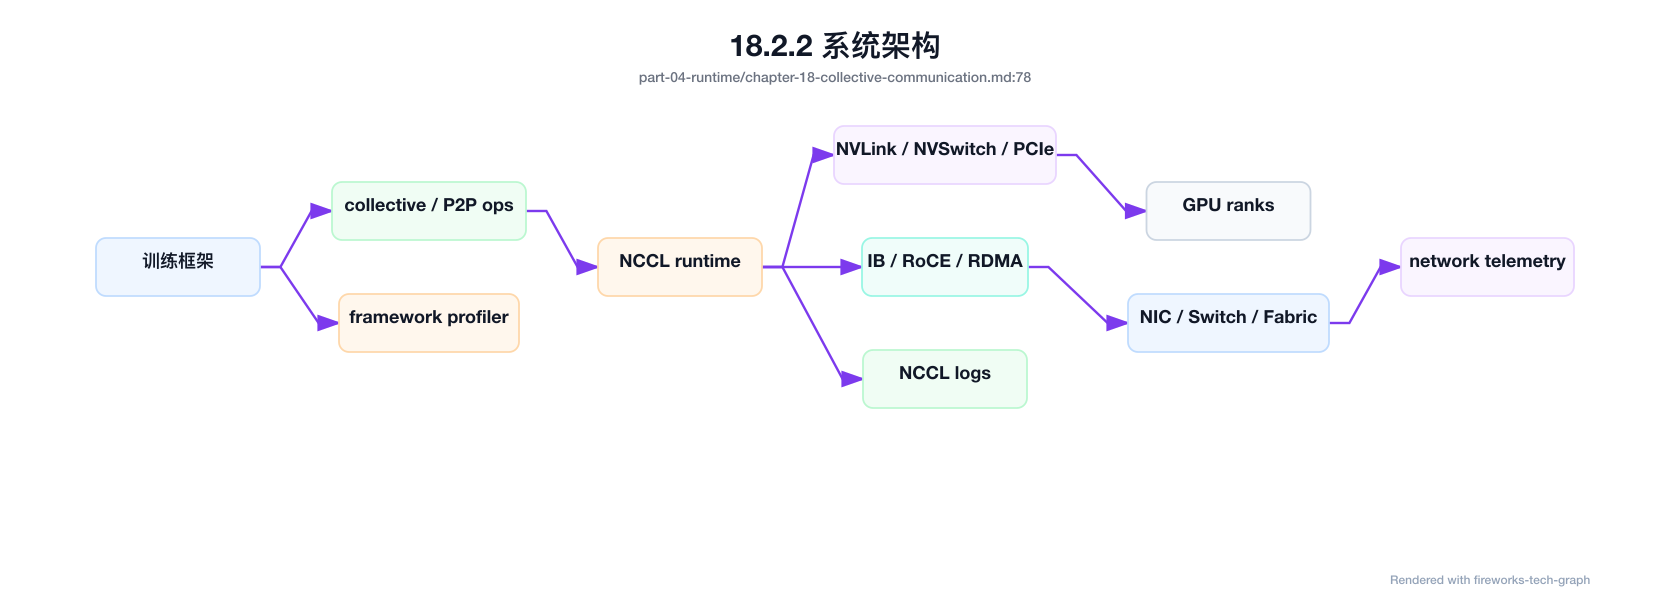
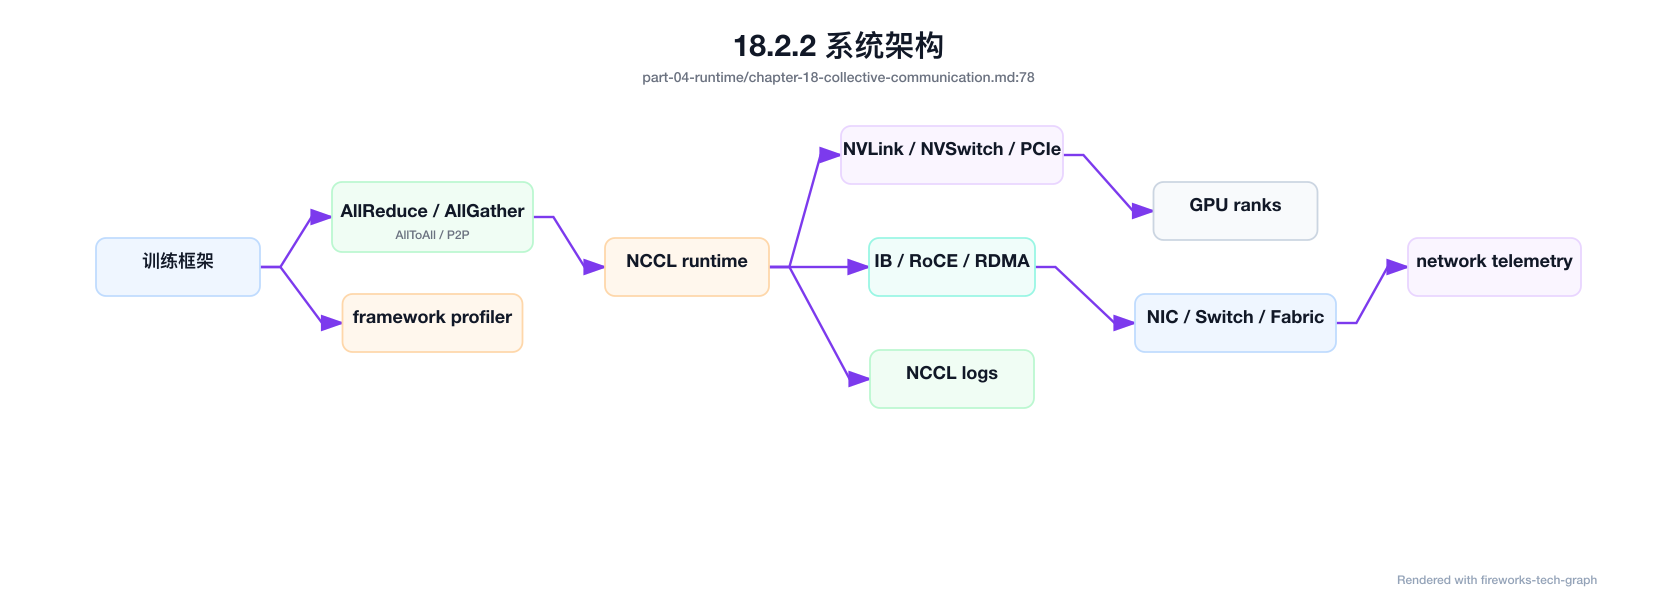
Deployed c9071a9 with MkDocs version: 1.6.1

diff --git a/part-04-runtime/chapter-18-collective-communication/index.html b/part-04-runtime/chapter-18-collective-communication/index.html
@@ -1770,10 +1770,10 @@
 </li>
         
           <li class="md-nav__item">
-  <a href="#1836-nccl" class="md-nav__link">
+  <a href="#1836-alltoall" class="md-nav__link">
     <span class="md-ellipsis">
       
-        18.3.6 NCCL
+        18.3.6 AllToAll
       
     </span>
   </a>
@@ -1781,10 +1781,10 @@
 </li>
         
           <li class="md-nav__item">
-  <a href="#1837-nvlink-ibroce" class="md-nav__link">
+  <a href="#1837-nccl" class="md-nav__link">
     <span class="md-ellipsis">
       
-        18.3.7 NVLink 与 IB/RoCE
+        18.3.7 NCCL
       
     </span>
   </a>
@@ -1792,10 +1792,21 @@
 </li>
         
           <li class="md-nav__item">
-  <a href="#1838" class="md-nav__link">
+  <a href="#1838-nvlink-ibroce" class="md-nav__link">
     <span class="md-ellipsis">
       
-        18.3.8 通信瓶颈分析
+        18.3.8 NVLink 与 IB/RoCE
+      
+    </span>
+  </a>
+  
+</li>
+        
+          <li class="md-nav__item">
+  <a href="#1839" class="md-nav__link">
+    <span class="md-ellipsis">
+      
+        18.3.9 通信瓶颈分析
       
     </span>
   </a>
@@ -3638,10 +3649,10 @@
 </li>
         
           <li class="md-nav__item">
-  <a href="#1836-nccl" class="md-nav__link">
+  <a href="#1836-alltoall" class="md-nav__link">
     <span class="md-ellipsis">
       
-        18.3.6 NCCL
+        18.3.6 AllToAll
       
     </span>
   </a>
@@ -3649,10 +3660,10 @@
 </li>
         
           <li class="md-nav__item">
-  <a href="#1837-nvlink-ibroce" class="md-nav__link">
+  <a href="#1837-nccl" class="md-nav__link">
     <span class="md-ellipsis">
       
-        18.3.7 NVLink 与 IB/RoCE
+        18.3.7 NCCL
       
     </span>
   </a>
@@ -3660,10 +3671,21 @@
 </li>
         
           <li class="md-nav__item">
-  <a href="#1838" class="md-nav__link">
+  <a href="#1838-nvlink-ibroce" class="md-nav__link">
     <span class="md-ellipsis">
       
-        18.3.8 通信瓶颈分析
+        18.3.8 NVLink 与 IB/RoCE
+      
+    </span>
+  </a>
+  
+</li>
+        
+          <li class="md-nav__item">
+  <a href="#1839" class="md-nav__link">
+    <span class="md-ellipsis">
+      
+        18.3.9 通信瓶颈分析
       
     </span>
   </a>
@@ -3799,7 +3821,7 @@
 <h2 id="181">18.1 导读<a class="headerlink" href="#181" title="Permanent link">&para;</a></h2>
 <h3 id="1811">18.1.1 本章回答的问题<a class="headerlink" href="#1811" title="Permanent link">&para;</a></h3>
 <ul>
-<li>AllReduce、AllGather、ReduceScatter、Broadcast 和 P2P 分别解决什么通信问题？</li>
+<li>AllReduce、AllGather、ReduceScatter、Broadcast、AllToAll 和 P2P 分别解决什么通信问题？</li>
 <li>NCCL 如何把训练框架的通信请求映射到 GPU、NVLink 和 IB/RoCE？</li>
 <li>通信瓶颈如何观察、定位和优化？</li>
 </ul>
@@ -3812,7 +3834,7 @@
 </ul>
 <h3 id="1813">18.1.3 读者测试<a class="headerlink" href="#1813" title="Permanent link">&para;</a></h3>
 <ul>
-<li>机制题：读者能否解释 AllReduce、AllGather、ReduceScatter、Broadcast 的核心机制，以及它们如何共同支撑《通信原语》？</li>
+<li>机制题：读者能否解释 AllReduce、AllGather、ReduceScatter、Broadcast、AllToAll 的核心机制，以及它们如何共同支撑《通信原语》？</li>
 <li>边界题：读者能否区分 框架、引擎、CUDA/NCCL、container runtime、driver 和硬件拓扑 的责任边界，并说明哪些问题不能简单归因到本章组件？</li>
 <li>路径题：读者能否从框架调用追到推理/训练 runtime、CUDA、NCCL、通信、GPU/HBM 和版本矩阵，并指出本章对象在路径中的位置？</li>
 <li>排障题：当《通信原语》相关生产症状出现时，读者能否列出第一层证据、下一跳证据、可能 owner 和止血动作？</li>
@@ -3820,12 +3842,12 @@
 <h3 id="1814">18.1.4 一个真实场景<a class="headerlink" href="#1814" title="Permanent link">&para;</a></h3>
 <p>一个 128 卡训练任务在前几天运行稳定，某天开始 step time 周期性升高。模型代码、数据版本和训练参数都没有变化，GPU utilization 也不是一直低，而是呈现“计算一段、等待一段”的锯齿形。应用团队先怀疑 PyTorch 版本和数据加载，平台团队检查 DataLoader 后没有发现异常。进一步打开框架 profiler 和 NCCL 日志，发现 AllReduce 带宽在部分 step 明显下降，关联到的 rank 都经过同一组交换机端口。</p>
 <p>网络 telemetry 显示，这些端口的错误计数和重传增加。对应用层来说，症状是训练变慢；对 Runtime 层来说，是 collective communication 无法稳定完成；对基础设施层来说，是链路质量下降或拥塞控制异常。这个场景说明，通信原语不是分布式训练的底层细节，而是连接模型框架、GPU 拓扑和网络健康的关键路径。没有通信视角，训练性能问题很容易被误判。</p>
-<p>本章的重点不是记住每个原语的定义，而是理解它们在训练系统中搬运什么数据、何时发生、消耗哪类链路、产生什么临时内存，以及如何被观测。AllReduce、AllGather、ReduceScatter、Broadcast 和 P2P 的语义不同，故障表现也不同。把通信原语讲清楚，才能把“训练慢”拆成可诊断的问题。</p>
+<p>本章的重点不是记住每个原语的定义，而是理解它们在训练系统中搬运什么数据、何时发生、消耗哪类链路、产生什么临时内存，以及如何被观测。AllReduce、AllGather、ReduceScatter、Broadcast、AllToAll 和 P2P 的语义不同，故障表现也不同。把通信原语讲清楚，才能把“训练慢”拆成可诊断的问题。</p>
 <p>更重要的是，通信问题通常跨团队边界。模型团队看到 loss 和 step time，Runtime 团队看到 profiler，平台团队看到 Pod 和 rank，网络团队看到端口和链路。若没有共同语言，各方会用自己的指标解释同一个现象。通信原语正是这套共同语言：它把训练框架中的一次等待，翻译成具体的数据交换、参与 rank、网络路径和可能的故障域。</p>
 <p>所以，本章会把每个原语都放回工程现场：它什么时候出现，慢了会怎样，错了如何定位。</p>
 <h2 id="182">18.2 基础模型<a class="headerlink" href="#182" title="Permanent link">&para;</a></h2>
 <h3 id="1821">18.2.1 核心概念<a class="headerlink" href="#1821" title="Permanent link">&para;</a></h3>
-<p>通信原语是分布式程序中常见的数据交换模式。训练框架用它们同步梯度、聚合参数、分发状态、移动 activation、传递 Pipeline micro-batch 或 dispatch MoE token。Collective communication 指多个 rank 共同参与的通信，例如 AllReduce、AllGather、ReduceScatter 和 Broadcast；P2P 则是 rank 之间点对点发送和接收。二者共同构成分布式训练的数据通路。</p>
+<p>通信原语是分布式程序中常见的数据交换模式。训练框架用它们同步梯度、聚合参数、分发状态、移动 activation、传递 Pipeline micro-batch 或 dispatch MoE token。Collective communication 指多个 rank 共同参与的通信，例如 AllReduce、AllGather、ReduceScatter、Broadcast 和 AllToAll；P2P 则是 rank 之间点对点发送和接收。二者共同构成分布式训练的数据通路。</p>
 <p>NCCL 是 NVIDIA GPU 生态中常用的集合通信库，它负责在多 GPU、多节点、多网络路径中执行这些通信。训练框架表达“我要对这些 rank 做 AllReduce”，NCCL 根据拓扑、算法、协议和环境变量选择具体路径。底层可能走 NVLink、NVSwitch、PCIe、InfiniBand、RoCE 或主机网络。上层看到的是一个通信 op，底层实际涉及 GPU、NIC、交换机、驱动、容器权限和网络配置。</p>
 <p>理解通信原语能帮助工程师区分计算瓶颈和通信瓶颈。GPU utilization 低不一定是模型小，也可能是 rank 在等待通信；HBM OOM 不一定是参数太多，也可能是 AllGather 临时 buffer；NCCL hang 不一定是 NCCL bug，也可能是某个 rank 没有进入同一个 collective。通信原语是分布式训练的系统语言，掌握它才能进行可靠排障。</p>
 <p>还要理解同步语义。大多数 collective 要求参与 rank 以一致顺序进入通信，否则就可能等待或挂起。分布式训练中，一个 rank 的异常分支、一个数据 shard 的特殊样本、一次未处理的 OOM，都可能让其他 rank 看起来像 NCCL hang。很多通信故障的根源并不在网络，而在多 rank 控制流不一致。</p>
@@ -3919,8 +3941,14 @@
 <p>同时记录对应的 stage 或 expert 关系。</p>
 <p>这能把通信阻塞映射回模型结构。</p>
 <p>诊断才可行动。</p>
-<h3 id="1836-nccl">18.3.6 NCCL<a class="headerlink" href="#1836-nccl" title="Permanent link">&para;</a></h3>
-<p>NCCL 是 GPU 集合通信的核心运行时之一，提供 AllReduce、AllGather、ReduceScatter、Broadcast 和 P2P 等能力。它会根据拓扑和配置选择算法、协议和网络接口。NCCL 的行为受 CUDA、driver、NCCL 版本、容器设备注入、RDMA 栈、网卡选择、DNS/主机名、环境变量和防火墙等因素影响。很多 NCCL 问题并不是库本身错误，而是运行环境不一致。</p>
+<h3 id="1836-alltoall">18.3.6 AllToAll<a class="headerlink" href="#1836-alltoall" title="Permanent link">&para;</a></h3>
+<p>AllToAll 表示每个 rank 都向其它 rank 发送自己负责的一部分数据，并从其它 rank 接收对应分片。它和 AllGather 不同：AllGather 让每个 rank 得到完整集合，AllToAll 则是全局重分布。Expert Parallel/MoE 是最典型场景，router 先按 token 选择 expert，然后通过 AllToAll 把 token dispatch 到持有对应 expert 的 rank，计算完成后再通过反向 AllToAll 或 All-to-All combine 把输出恢复到原顺序。</p>
+<p>AllToAll 的难点在于流量不均衡。Data Parallel 的 AllReduce 通常通信量更稳定，AllToAll 则会受到 token 分布、top-k、capacity factor、expert placement 和负载均衡损失影响。某些 expert 过热时，相关 rank、rail 或 rack 会成为热点；某些 rank 接收 token 过多时，既会增加通信时间，也会增加 expert 计算排队。平均带宽正常，不代表 AllToAll 没有尾部问题。</p>
+<p>排查 AllToAll 要同时看路由和网络。第一层证据不是只看 NCCL 带宽，而是看每个 expert 的 token count、drop/overflow、dispatch/combine 时间、rank pair 流量矩阵、慢 rank 和负载均衡 loss。若热点集中在某组 expert，优先检查 gating、capacity 和 expert placement；若热点集中在某个 rack 或 rail，优先检查拓扑放置和网络路径。AllToAll 把模型路由策略和 scale-out fabric 紧密绑在一起，不能只交给网络团队处理。</p>
+<p>AllToAll 还会影响并行维度放置。EP 可以跨节点扩展 expert 数，但跨节点 AllToAll 会把 token 重分布放到关键路径上；若模型同时使用 TP、PP、DP 和 EP，AllToAll 的并行组应尽量与高带宽域、rack 边界和 expert 热点分布匹配。平台应把 AllToAll 画像写入 <code>collective_trace_record</code>，并在调度侧保存 expert group、rank mapping 和 network path evidence。</p>
+<p>从生产角度看，AllToAll 不是“MoE 的一个通信细节”，而是 MoE 能否稳定服务的核心风险面。它决定 token 是否能按时到达 expert，决定负载均衡损失是否会变成尾延迟，也决定网络成本是否随 expert 数量失控。没有 AllToAll 观测，EP/MoE 的性能问题很容易被误判为模型质量、GPU 算力或普通网络抖动。</p>
+<h3 id="1837-nccl">18.3.7 NCCL<a class="headerlink" href="#1837-nccl" title="Permanent link">&para;</a></h3>
+<p>NCCL 是 GPU 集合通信的核心运行时之一，提供 AllReduce、AllGather、ReduceScatter、Broadcast、AllToAll 和 P2P 等能力。它会根据拓扑和配置选择算法、协议和网络接口。NCCL 的行为受 CUDA、driver、NCCL 版本、容器设备注入、RDMA 栈、网卡选择、DNS/主机名、环境变量和防火墙等因素影响。很多 NCCL 问题并不是库本身错误，而是运行环境不一致。</p>
 <p>生产平台要把 NCCL 配置作为运行时基线管理。NCCL 版本、关键环境变量、网络接口选择、拓扑文件、debug 级别、timeout 策略都应可追溯。容器内看不到 RDMA 设备、选择了错误网卡、节点间主机名解析异常、RoCE 配置不完整，都可能表现为 NCCL 初始化失败、性能下降或 hang。排障时不能只让用户贴一段错误日志，而要自动收集环境和拓扑上下文。</p>
 <p>更严格的做法是生成 <code>nccl_env_contract</code>。它定义一类训练模板允许哪些 NCCL 环境变量、接口选择、RDMA 设备、timeout、debug 和拓扑文件。用户可以覆盖部分参数，但覆盖必须进入审计，并触发对应回归。这个 contract 能防止“某个脚本临时加了 <code>NCCL_SOCKET_IFNAME</code>，后来所有任务都走错接口”这种隐性事故。</p>
 <pre><code class="language-yaml">nccl_env_contract:
@@ -3960,7 +3988,7 @@
 <p>通信库升级应按基础设施变更处理。</p>
 <p>它影响的是整条训练数据通路。</p>
 <p>升级前后必须保留可对比基线。</p>
-<h3 id="1837-nvlink-ibroce">18.3.7 NVLink 与 IB/RoCE<a class="headerlink" href="#1837-nvlink-ibroce" title="Permanent link">&para;</a></h3>
+<h3 id="1838-nvlink-ibroce">18.3.8 NVLink 与 IB/RoCE<a class="headerlink" href="#1838-nvlink-ibroce" title="Permanent link">&para;</a></h3>
 <p>NVLink 和 NVSwitch 主要支撑节点内或 scale-up 域内 GPU 间高速通信，适合 Tensor Parallel、部分 Pipeline stage 和高频 activation/parameter exchange。InfiniBand 和 RoCE 主要支撑跨节点 scale-out 通信，适合 Data Parallel、跨节点 Pipeline、分布式 checkpoint 和更大规模训练。二者不是互相替代，而是服务不同距离和通信模式。</p>
 <p>并行策略应尽量让高频、低延迟通信贴近 NVLink/NVSwitch，把可扩展、可重叠或低频通信放到跨节点网络。若 Tensor Parallel group 跨节点，性能会更依赖 RDMA；若 Data Parallel 全部局限在少数节点，可能影响资源利用和故障域分布。平台调度需要理解这些差异，否则硬件拓扑优势无法转化为训练吞吐。</p>
 <p>RoCE 对以太网配置要求高，例如 PFC、ECN、MTU、队列、拥塞控制和交换机缓冲；InfiniBand 通常提供更完整的 HPC fabric 能力，但也需要 subnet manager、链路健康和拓扑管理。无论使用哪种网络，端口错误、链路降速、拥塞和不对称路径都会影响 NCCL。AI Factory 的网络验收不能只看 ping 或普通 TCP 带宽，必须验证 GPU 到 GPU 的真实通信路径。</p>
@@ -3971,16 +3999,16 @@
 <p>靠近高频通信组的带宽最有价值。</p>
 <p>远端带宽无法弥补错误放置。</p>
 <p>拓扑意识是通信效率的前提。</p>
-<h3 id="1838">18.3.8 通信瓶颈分析<a class="headerlink" href="#1838" title="Permanent link">&para;</a></h3>
+<h3 id="1839">18.3.9 通信瓶颈分析<a class="headerlink" href="#1839" title="Permanent link">&para;</a></h3>
 <p>通信瓶颈分析应从 step timeline 开始。先把一次训练 step 拆成 data loading、forward、backward、communication、optimizer 和 checkpoint，再判断通信是否进入关键路径。若通信与计算充分重叠，即使通信耗时不短，也未必影响 step time；若通信暴露在关键路径上，哪怕单次 op 不大，也会拖慢整体。没有时间线，就容易把相关性误判为因果。</p>
-<p>第二步是定位具体 op 和 rank group。AllReduce 慢、AllGather OOM、ReduceScatter 与 optimizer 不重叠、Broadcast 初始化慢、P2P 顺序错误，对应的排查路径不同。还要看慢是否集中在某些 rank、节点、NIC、交换机端口或机架。如果慢 rank 与特定物理路径重合，更可能是基础设施问题；如果所有 rank 都慢，更可能是策略、规模或全局网络拥塞。</p>
+<p>第二步是定位具体 op 和 rank group。AllReduce 慢、AllGather OOM、ReduceScatter 与 optimizer 不重叠、Broadcast 初始化慢、AllToAll 负载倾斜、P2P 顺序错误，对应的排查路径不同。还要看慢是否集中在某些 rank、节点、NIC、交换机端口或机架。如果慢 rank 与特定物理路径重合，更可能是基础设施问题；如果所有 rank 都慢，更可能是策略、规模或全局网络拥塞。</p>
 <p>第三步是用基线验证假设。可以运行 NCCL tests、检查网络 telemetry、查看 DCGM、对比历史任务、改变 placement 或降低并行度。每次实验只改变一个变量，才能判断根因。通信优化的常见方向包括拓扑感知调度、调整并行策略、增大或减小 bucket、改进 overlap、修复网络配置、隔离异常节点。目标不是让某个 benchmark 更好看，而是让真实训练稳定、可重复、可解释。</p>
 <p>瓶颈分析还要避免平均值陷阱。平均 step time、平均带宽和平均 GPU utilization 都可能掩盖尾部 rank。同步训练中，最慢 rank 决定全局节奏；在线推理中，尾部延迟决定用户体验。通信 dashboard 应默认展示分位数、最大值和 rank skew，而不是只给平均值。排障时先找到“谁在等谁”，再讨论优化策略。</p>
 <p>如果找不到等待关系，就说明 trace 还不够完整。</p>
 <p>完整 trace 应覆盖计算、通信和调度放置。</p>
 <p>三者缺一，定位都会失真。</p>
 <p>通信瓶颈分析本质上是跨层关联。</p>
-<p><img alt="图：18.3.8 通信瓶颈分析" src="../../assets/diagrams/part-04-runtime-chapter-18-collective-communication-03.svg" /></p>
+<p><img alt="图：18.3.9 通信瓶颈分析" src="../../assets/diagrams/part-04-runtime-chapter-18-collective-communication-03.svg" /></p>
 <h2 id="184">18.4 工程落地<a class="headerlink" href="#184" title="Permanent link">&para;</a></h2>
 <h3 id="1841">18.4.1 工程实现<a class="headerlink" href="#1841" title="Permanent link">&para;</a></h3>
 <p>工程实现应让训练任务自动记录通信环境。至少包括 backend、NCCL 版本、CUDA/driver 版本、关键 NCCL 环境变量、网络接口、RDMA 设备、rank 到 GPU/NIC 映射、并行组、collective metrics 和 debug 日志策略。没有这些信息，通信故障复盘会依赖人工记忆。平台应把它们写入作业元数据和运行报告。</p>
@@ -4127,7 +4155,7 @@
 <p>复盘结论要回写到模板和准入规则。</p>
 <p>第七类故障是诊断窗口丢失。训练任务 hang 后被用户直接 kill，容器日志、NCCL debug、端口计数增量和 rank 状态全部消失，只剩一个失败退出码。平台应提供“保留现场”动作：暂停任务、冻结节点事件、采集诊断包、再决定重启或释放资源。昂贵训练任务不能把证据管理交给临时人工命令。</p>
 <h3 id="1843">18.4.3 性能指标<a class="headerlink" href="#1843" title="Permanent link">&para;</a></h3>
-<p>通信指标要覆盖 op、rank、拓扑和业务四个层面。Op 层面包括 AllReduce、AllGather、ReduceScatter、Broadcast、P2P 的耗时、传输量和有效带宽；rank 层面包括慢 rank、等待时间、超时和错误；拓扑层面包括节点内带宽、跨节点带宽、端口错误、拥塞、重传和链路状态；业务层面包括通信占 step time 的比例、tokens/s、扩展效率和失败率。</p>
+<p>通信指标要覆盖 op、rank、拓扑和业务四个层面。Op 层面包括 AllReduce、AllGather、ReduceScatter、Broadcast、AllToAll、P2P 的耗时、传输量和有效带宽；rank 层面包括慢 rank、等待时间、超时和错误；拓扑层面包括节点内带宽、跨节点带宽、端口错误、拥塞、重传和链路状态；业务层面包括通信占 step time 的比例、tokens/s、扩展效率和失败率。</p>
 <p>不同指标回答不同问题。有效带宽低说明通信路径或算法可能有问题；rank skew 高说明某些 rank 拖慢整体；AllGather 期间 HBM 峰值高说明临时 buffer 可能引发 OOM；通信占比上升说明扩容收益正在下降。指标不能只在任务失败后收集，必须持续采样并保留历史基线。否则训练变慢时无法判断是网络退化、框架升级、模型变化还是调度放置变化。</p>
 <p>指标口径也要固定。NCCL test 带宽、真实训练 op 带宽、端口物理带宽不是同一个概念；单节点 bandwidth 和跨节点 bandwidth 不能混用；平均耗时会掩盖尾部 rank。对外报告通信能力时，应标明 GPU 数、节点数、消息大小、拓扑范围、并行策略和测试工具。没有上下文的带宽数字不能指导工程决策。</p>
 <p>通信指标还应和成本关联。更强网络、更低 oversubscription 和更复杂拓扑都会提高建设成本。平台需要知道通信瓶颈影响了多少 tokens/s、多少训练时长和多少 GPU 空转，才能判断是否值得投资。没有这层经济视角，通信优化容易停留在局部技术指标，而不能支撑 AI Factory 的容量决策。</p>
@@ -4171,7 +4199,7 @@
 <h3 id="1851">18.5.1 小结<a class="headerlink" href="#1851" title="Permanent link">&para;</a></h3>
 <ul>
 <li>Communication primitives 是分布式训练的关键路径，不是底层附属细节。</li>
-<li>AllReduce、AllGather、ReduceScatter、Broadcast 和 P2P 的语义、内存压力和故障模式不同。</li>
+<li>AllReduce、AllGather、ReduceScatter、Broadcast、AllToAll 和 P2P 的语义、内存压力和故障模式不同。</li>
 <li>NCCL 问题通常跨越框架、容器、驱动、RDMA 和网络拓扑。</li>
 <li>通信排障需要把 step、op、rank、GPU、NIC、交换机和历史基线关联起来。</li>
 </ul>